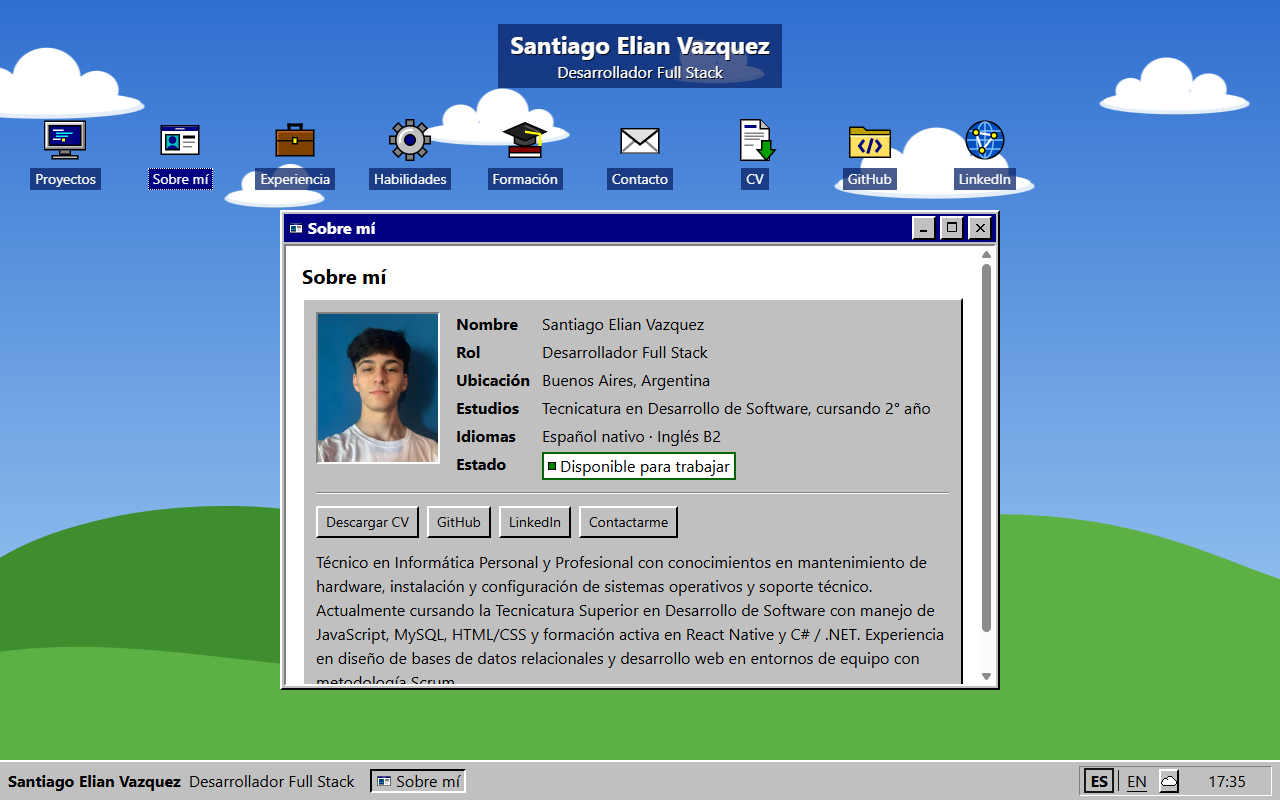
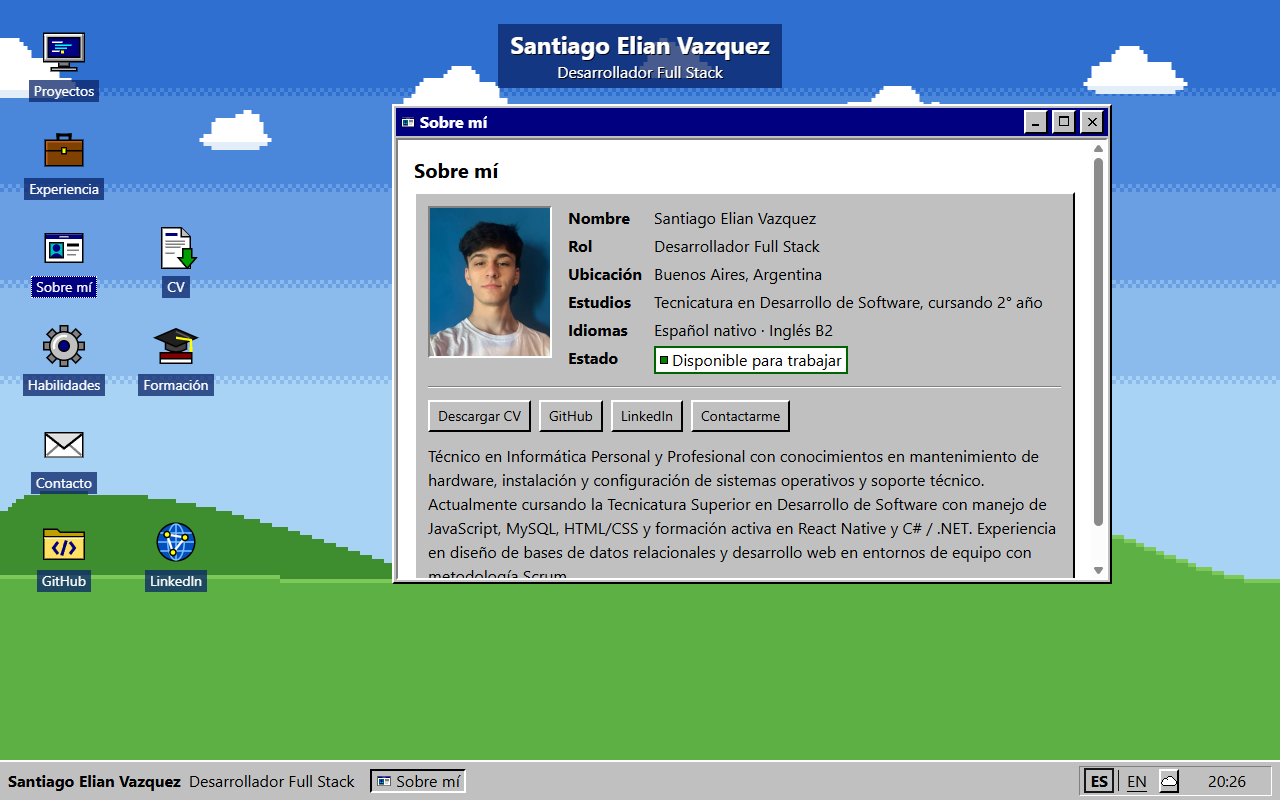
Captura del README con el escritorio nuevo

diff --git a/README.md b/README.md
@@ -2,7 +2,7 @@
 
 **Desarrollador Full Stack** · Buenos Aires, Argentina · [English below](#english)
 
-Mi portafolio personal, con forma de escritorio de Windows 95: íconos, ventanas que se mueven y se minimizan, barra de tareas y un fondo con nubes. Cada sección es una ventana: proyectos, experiencia, formación, habilidades y contacto.
+Mi portafolio personal, con forma de escritorio de Windows 95: íconos, ventanas que se mueven y se minimizan, barra de tareas y un fondo en pixel art con nubes. Cada sección es una ventana: proyectos, experiencia, formación, habilidades y contacto.
 
 **🔗 Verlo en vivo: [santiago-vazquez-portfolio.vercel.app](https://santiago-vazquez-portfolio.vercel.app)**
 
@@ -64,7 +64,7 @@ El sitio funciona sin configuración. Para que el formulario envíe emails de ve
 
 **Full Stack Developer** · Buenos Aires, Argentina
 
-My personal portfolio, built as a Windows 95 desktop: icons, draggable and minimizable windows, a taskbar and a cloudy wallpaper. Each section is a window: projects, experience, education, skills and contact.
+My personal portfolio, built as a Windows 95 desktop: icons, draggable and minimizable windows, a taskbar and a pixel-art cloudy wallpaper. Each section is a window: projects, experience, education, skills and contact.
 
 **🔗 Live: [santiago-vazquez-portfolio.vercel.app](https://santiago-vazquez-portfolio.vercel.app)**
 
